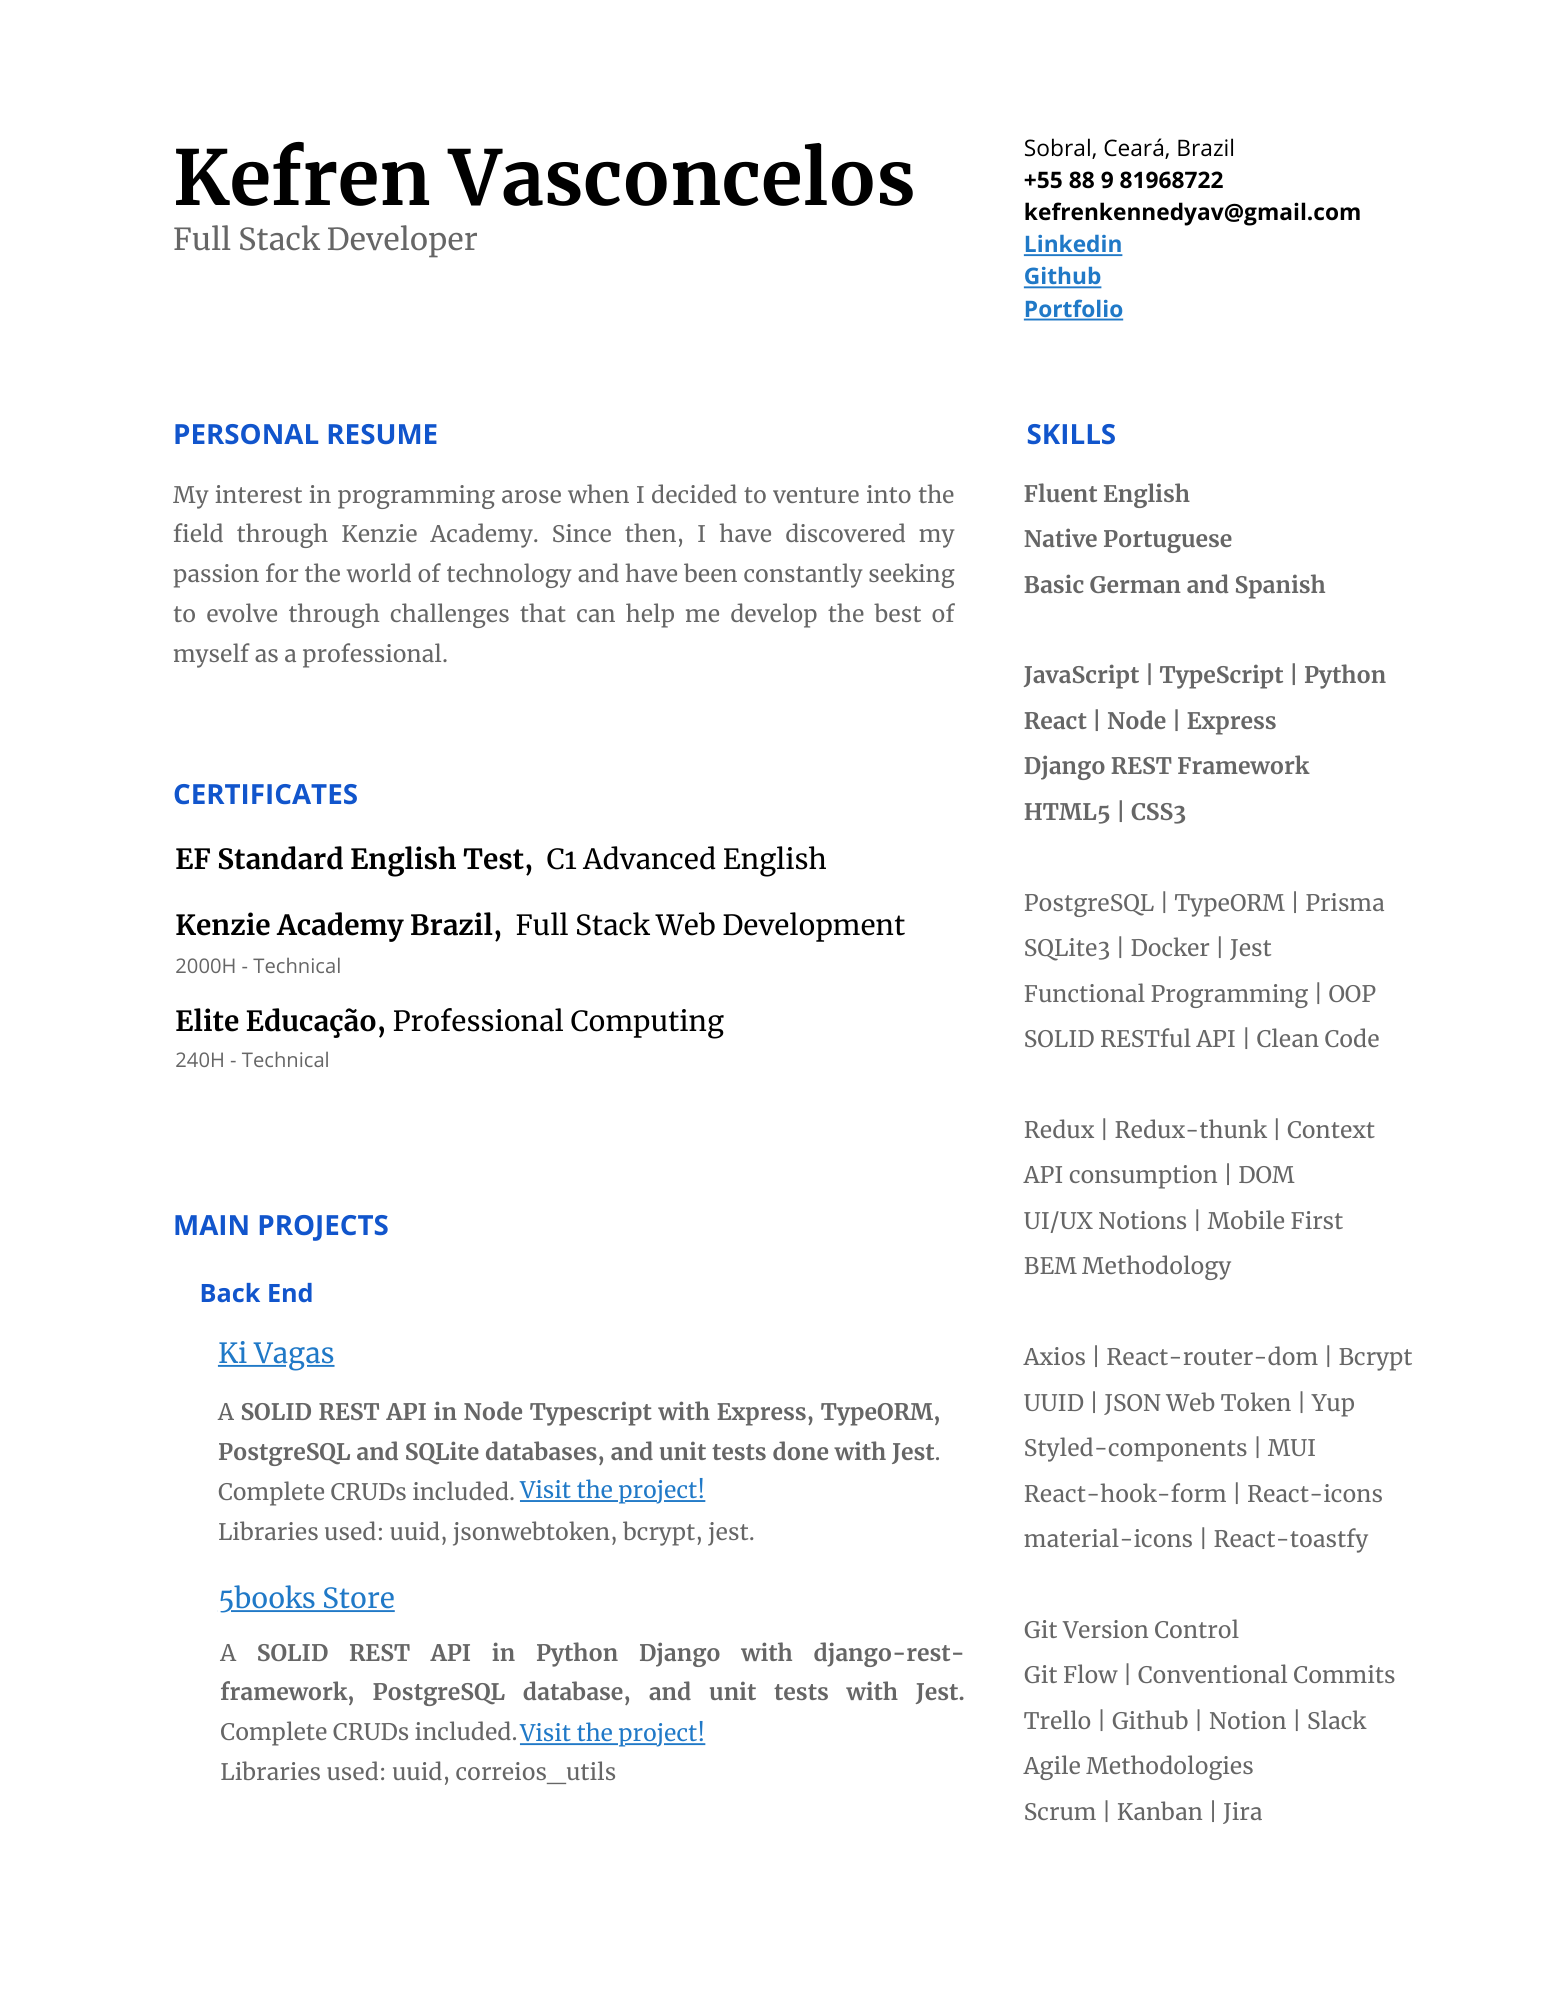
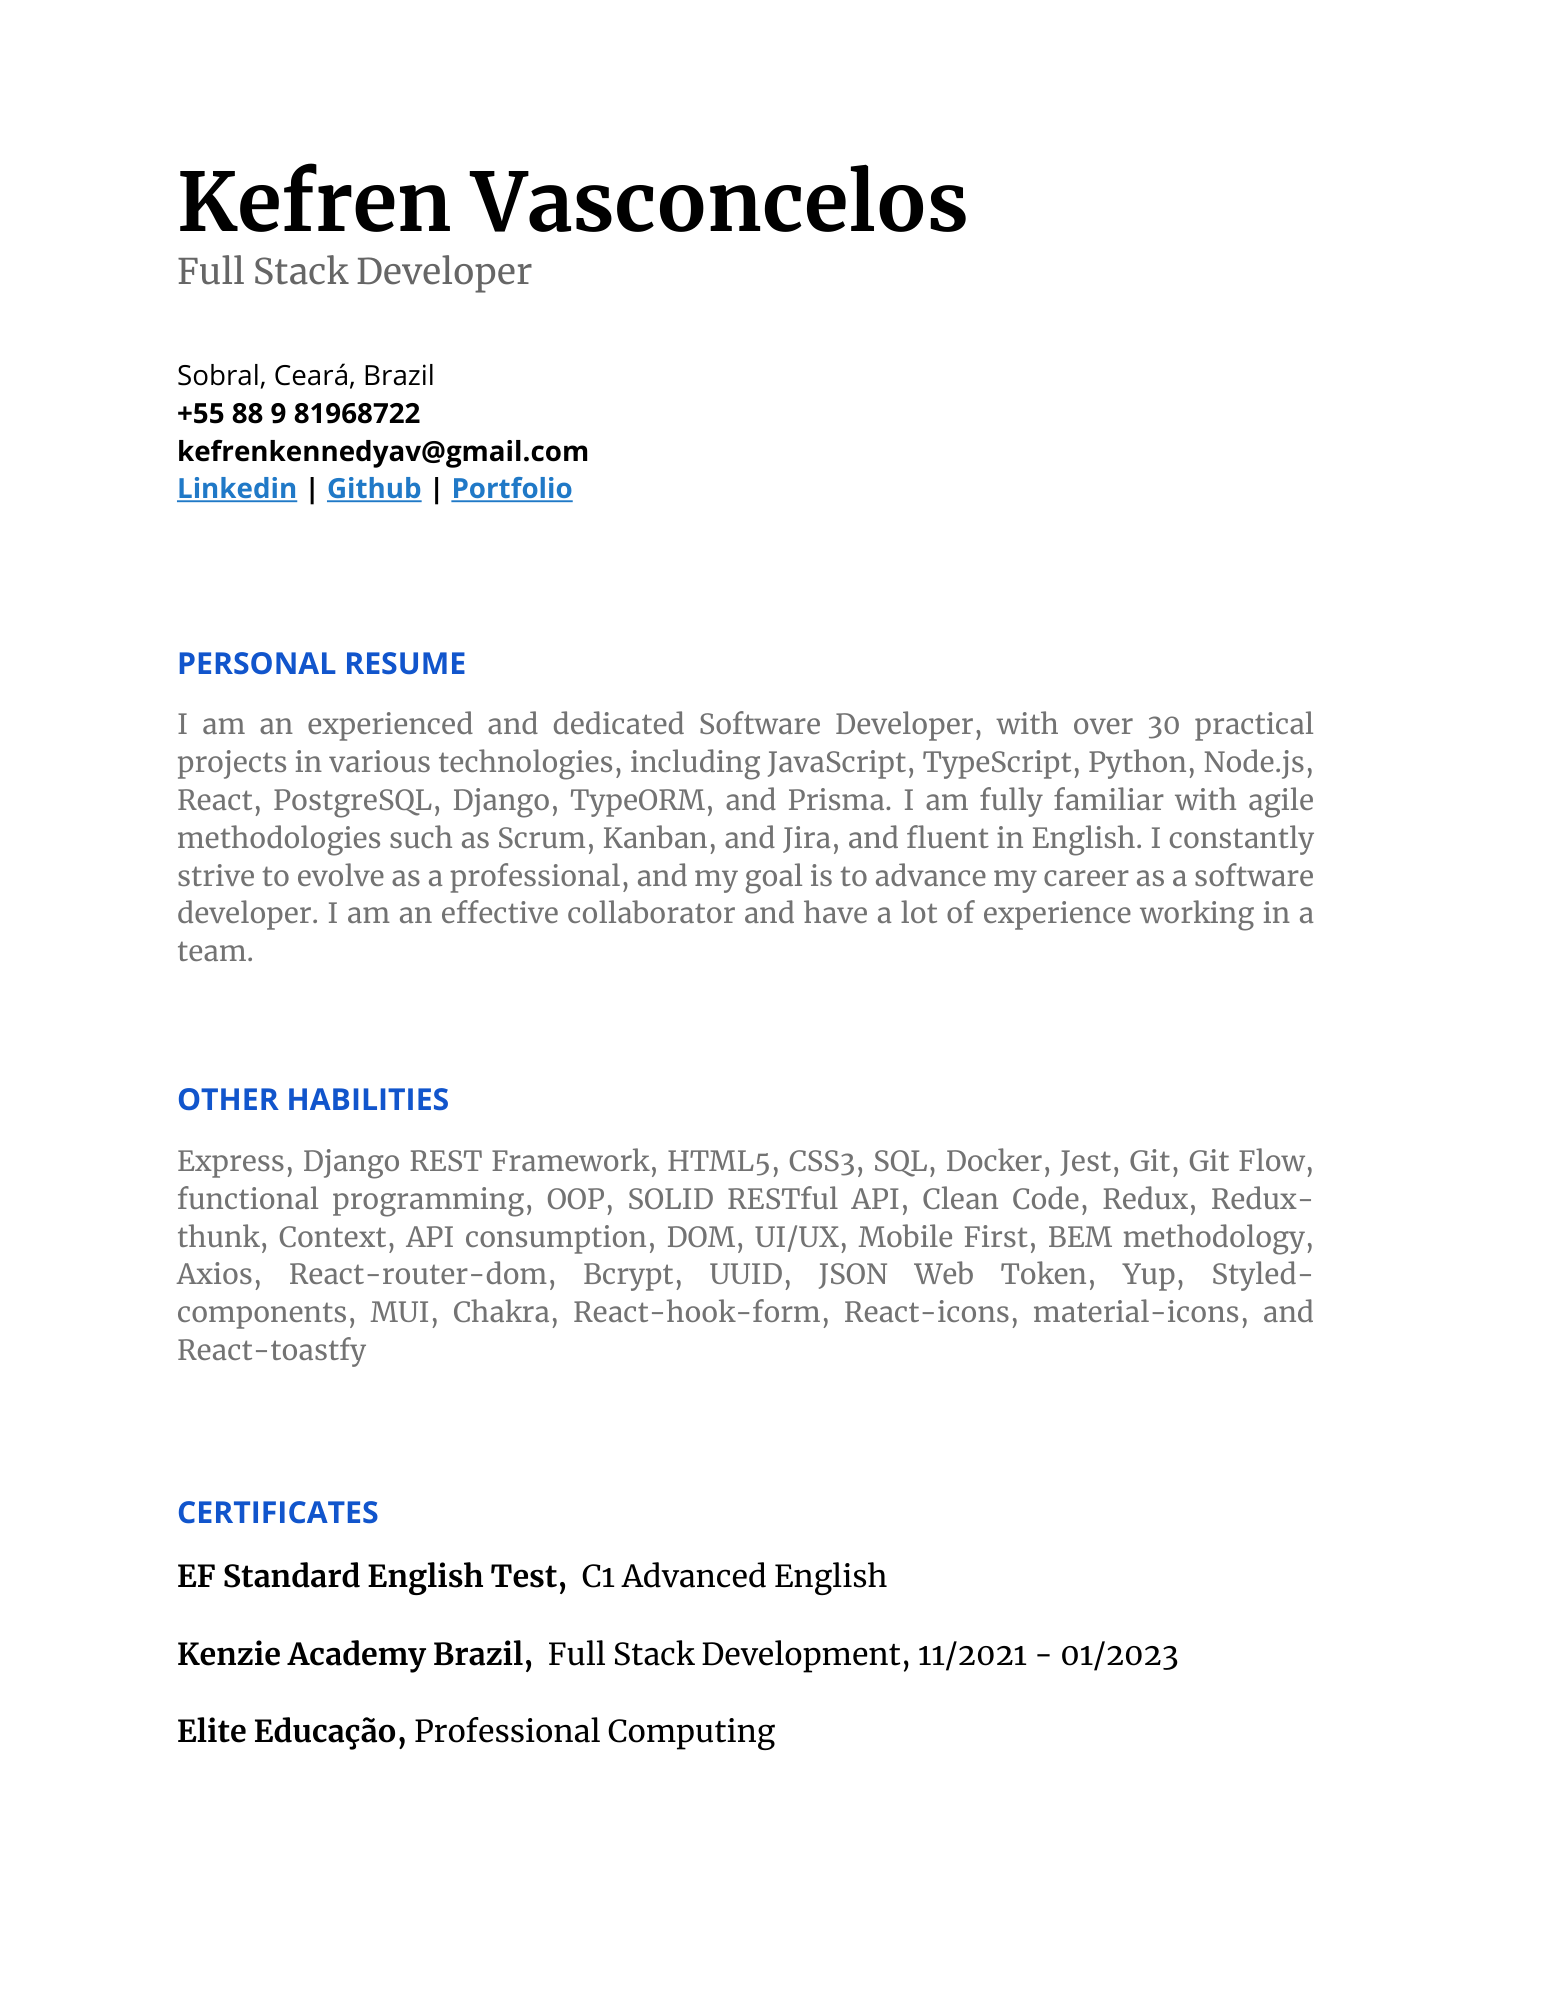
Update nameUser to "Kefren Vasconcelos" in userData.ts

Changed region(s): [[0.0932, 0.186, 0.901, 0.93], [0.0932, 0.062, 0.6214, 0.155], [0.6524, 0.062, 0.8699, 0.186]]

diff --git a/src/utils/userData.ts b/src/utils/userData.ts
@@ -1,5 +1,5 @@
 export const userData = {
-  nameUser: "Kefren Kennedy",
+  nameUser: "Kefren Vasconcelos",
   githubUser: "kefrenkennedy",
   linkedinUser: "kefren-vasconcelos",
   whatsappNumber: "+5588981968722",
